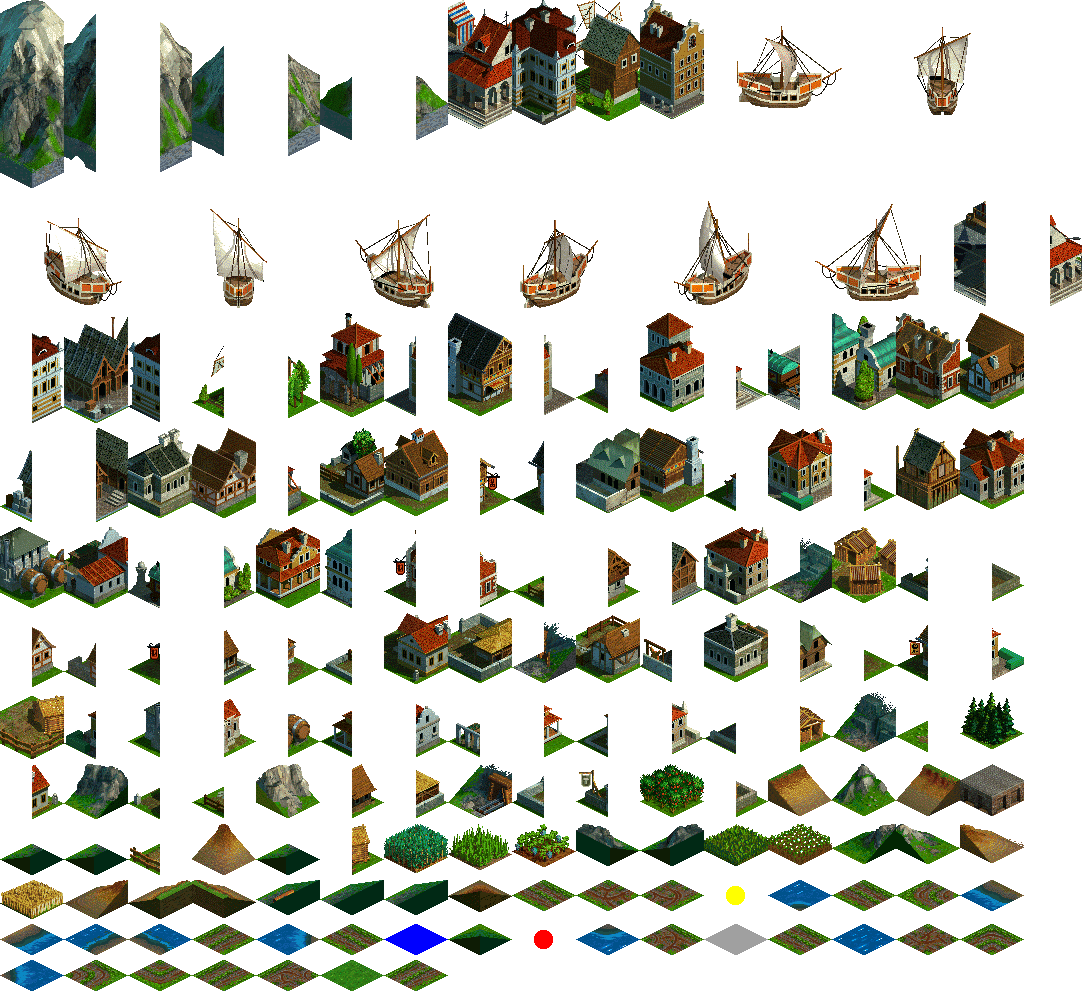
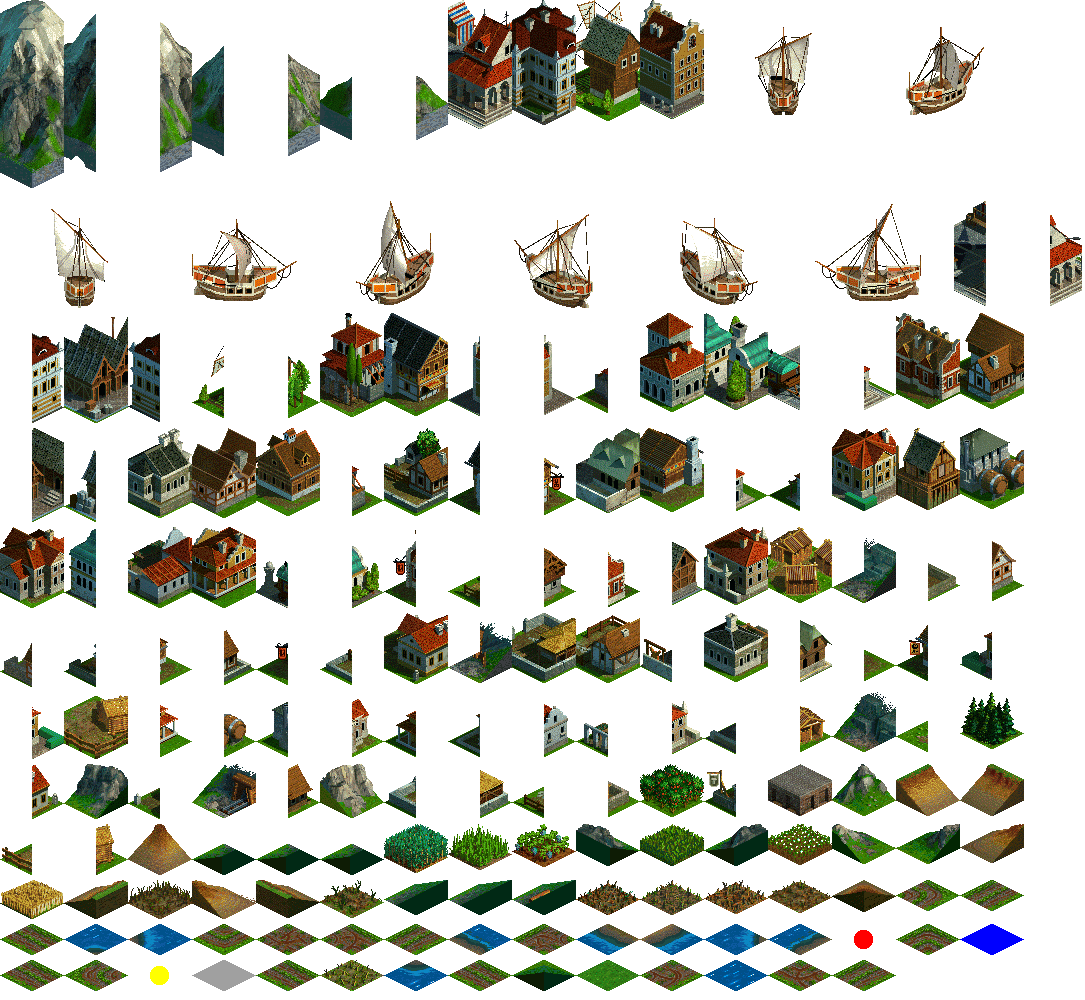
added fertility

diff --git a/scripts/logic/gameDefinitions.js b/scripts/logic/gameDefinitions.js
@@ -48,8 +48,37 @@ CLOTHES_ID = 			(new Product("Clothes")).id;
 
 // structure.js
 
+var tilesFertility = {}; // tile_index -> fertility array (based on tile.island.fertility)
+
+function getFertilityFor(coords, plant){
+	if(	tilesFertility[tiles.index(coords)] != undefined &&
+		tilesFertility[tiles.index(coords)][plant.structName] != undefined)
+		return tilesFertility[tiles.index(coords)][plant.structName];
+	else {
+		var tile = tiles.at(coords);
+
+		console.assert(tile.islandId != INVALID_ID);
+
+		var fertility = islands[tile.islandId].fertility[plant.structName] || 1;
+		var calcFerility = (Math.random() <= fertility);
+
+		if(tilesFertility[tiles.index(coords)] == undefined)
+			tilesFertility[tiles.index(coords)] = {};
+
+		tilesFertility[tiles.index(coords)][plant.structName] = calcFerility;
+		
+		return calcFerility;
+	}
+}
+
 var FieldPlant = Structure.extend(function(){
 	this.requiredResources = makeRequiredResources(5);
+
+	this.isWithered = false; // czy dane pole jest uschnięte
+
+	this.onBuild = function(){
+		this.isWithered = !getFertilityFor(this.centerTile().index, this);
+	};
 });
 
 var TreeFld = buildable("Tree field", FieldPlant.extend(function(){}));
@@ -507,7 +536,7 @@ var Windmill = buildable("Windmill", Workshop.extend(function(){
 
 		this.storage.catagories[OUTPUT] = FLOUR_ID;
 
-		this.inputConsumption[INPUT_1] = 2;
+		this.inputnnConsumption[INPUT_1] = 2;
 		this.storage.catagories[INPUT_1] = GRAIN_ID;
 	};
 }));

diff --git a/scripts/graphics.js b/scripts/graphics.js
@@ -62,6 +62,7 @@ define(['jquery', 'three-stats', './graphics/framework', 'text!../imgs/atlas.jso
 
 		var moveMap = false;
 		var wasMoved = false;
+		var lastMouseDown = 0;
 
 		this.onMouseEnter = function(){};
 		this.onMouseLeave = function(){
@@ -96,6 +97,7 @@ define(['jquery', 'three-stats', './graphics/framework', 'text!../imgs/atlas.jso
 		this.onMouseDown = function(x, y){
 			moveMap = true;
 			wasMoved = false;
+			lastMouseDown = (new Date()).getTime();
 		};
 
 		this.clickHandler = function(){};
@@ -103,7 +105,7 @@ define(['jquery', 'three-stats', './graphics/framework', 'text!../imgs/atlas.jso
 		this.onMouseUp = function(x, y){
 			moveMap = false;
 
-			if(!wasMoved){
+			if(!wasMoved || ((new Date()).getTime() - lastMouseDown) < 200){
 				var clickedTile = this.getTileOnScreen(x, y);
 
 				if(clickedTile != undefined && this.choosedSth instanceof Ship){
@@ -317,6 +319,9 @@ define(['jquery', 'three-stats', './graphics/framework', 'text!../imgs/atlas.jso
 					function getBuildingImage(building, offset){
 						var name = _.clone(building.structName).replace(/\s/g, '');
 						name = name.toLowerCase();
+
+						if(building instanceof FieldPlant)
+							name = name + (building.isWithered ? "withered" : "");
 
 						if(building instanceof House)
 							name = name + (building.type + 1).toString(); // house<level>_...

diff --git a/scripts/logic/productionBuilding.js b/scripts/logic/productionBuilding.js
@@ -109,12 +109,12 @@ var Farm = ProductionBuilding.extend(function(){
 	this.totalOnes = 0;
 	
 	this.forEachTileInRadius = function(tile){
-		if(tile.terrainLevel >= 2 && tile.buildingData !== this){
+		if(tile.terrainLevel >= PLAINS && tile.buildingData !== this){
 			if(tile.buildingData == null){
 				if(this.requiredCrop == null)
 					this.goodOnes++;
 			} else
-				if(tile.buildingData.structName == this.requiredCrop)
+				if(tile.buildingData.structName == this.requiredCrop && !tile.buildingData.isWithered)
 					this.goodOnes++;
 		}
 	}

diff --git a/scripts/logic/island.js b/scripts/logic/island.js
@@ -9,13 +9,15 @@ var islands = [];
 var Island = Class.extend(function(){
 	this.id = INVALID_ID;
 
+	this.fertility = {}; // urodzajność (domyślnie jest 1)
+
 	this.mainMarketplaces = {}; // countryId -> marketplaceObj
+
+	this.houseGroups = {}; // countryId -> houseGroup[]
 
 	// valid for each hardUpdate:
 	this.income = {};// countryId -> income
 	this.maintenance = {};// countryId -> maintenance
-
-	this.houseGroups = {}; // countryId -> houseGroup[]
 
 	this.constructor = function(){
 		this.id = islands.length;

diff --git a/scripts/logic/map.js b/scripts/logic/map.js
@@ -35,6 +35,10 @@ function makeIsland(x, y, w, h){
 		}
 	}
 
+	newIsland.fertility = {
+		"Grain field": 0.5
+	};
+
 	return newIsland;
 }
 

diff --git a/README.md b/README.md
@@ -2,5 +2,3 @@ Coloniae
 ========
 
 This game is clone of old strategy Anno 1602. Copyrights for graphics, design and so on are held by the Ubisoft company. It is written only for educational purposes.
-
-Blah not blah just testing'
